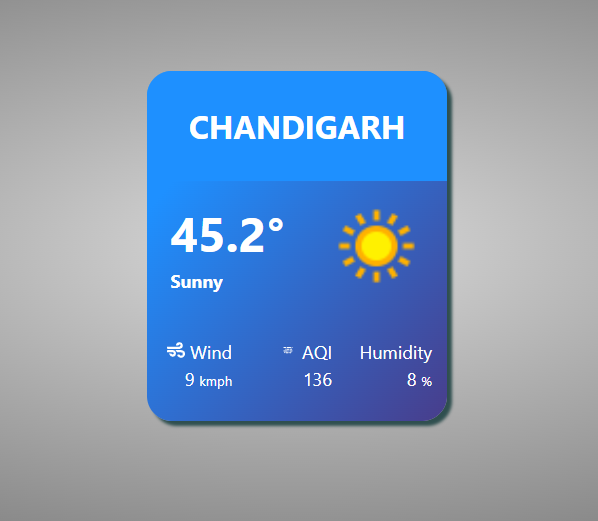
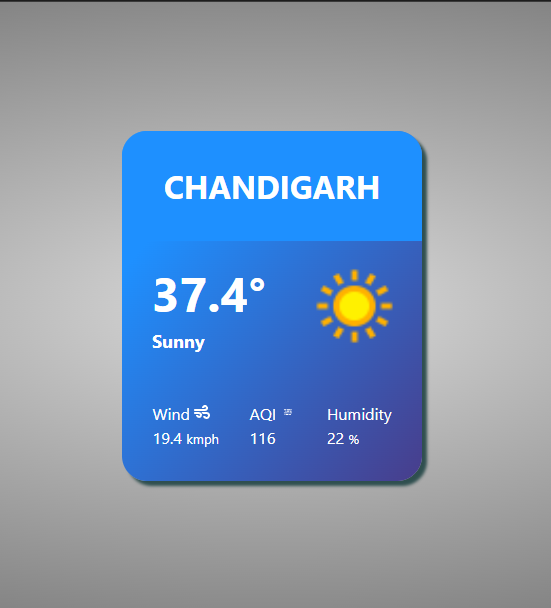
Updated screenshots + minor CSS changes

Changed region(s): [[0.216, 0.1228, 0.8022, 0.8292], [0.0, 0.0, 1.0, 0.0307], [0.4628, 0.6449, 0.5554, 0.737]]

diff --git a/src/components/WeatherApp/WeatherApp.css b/src/components/WeatherApp/WeatherApp.css
@@ -21,7 +21,7 @@
     display: flex;
     justify-content: center;
     align-items: center;
-    width: 60%;
+    width: 30%;
     height: fit-content;
     padding: 20px 20px;
     /* border-radius: 10%; */

diff --git a/src/components/WeatherDetails/WeatherDetails.css b/src/components/WeatherDetails/WeatherDetails.css
@@ -16,7 +16,7 @@
   display: flex;
   flex-direction: column;
   align-items: flex-start;
-  padding-left: 20px;
+  padding-left: 30px;
   .cond{
     font-size: large; 
   }
